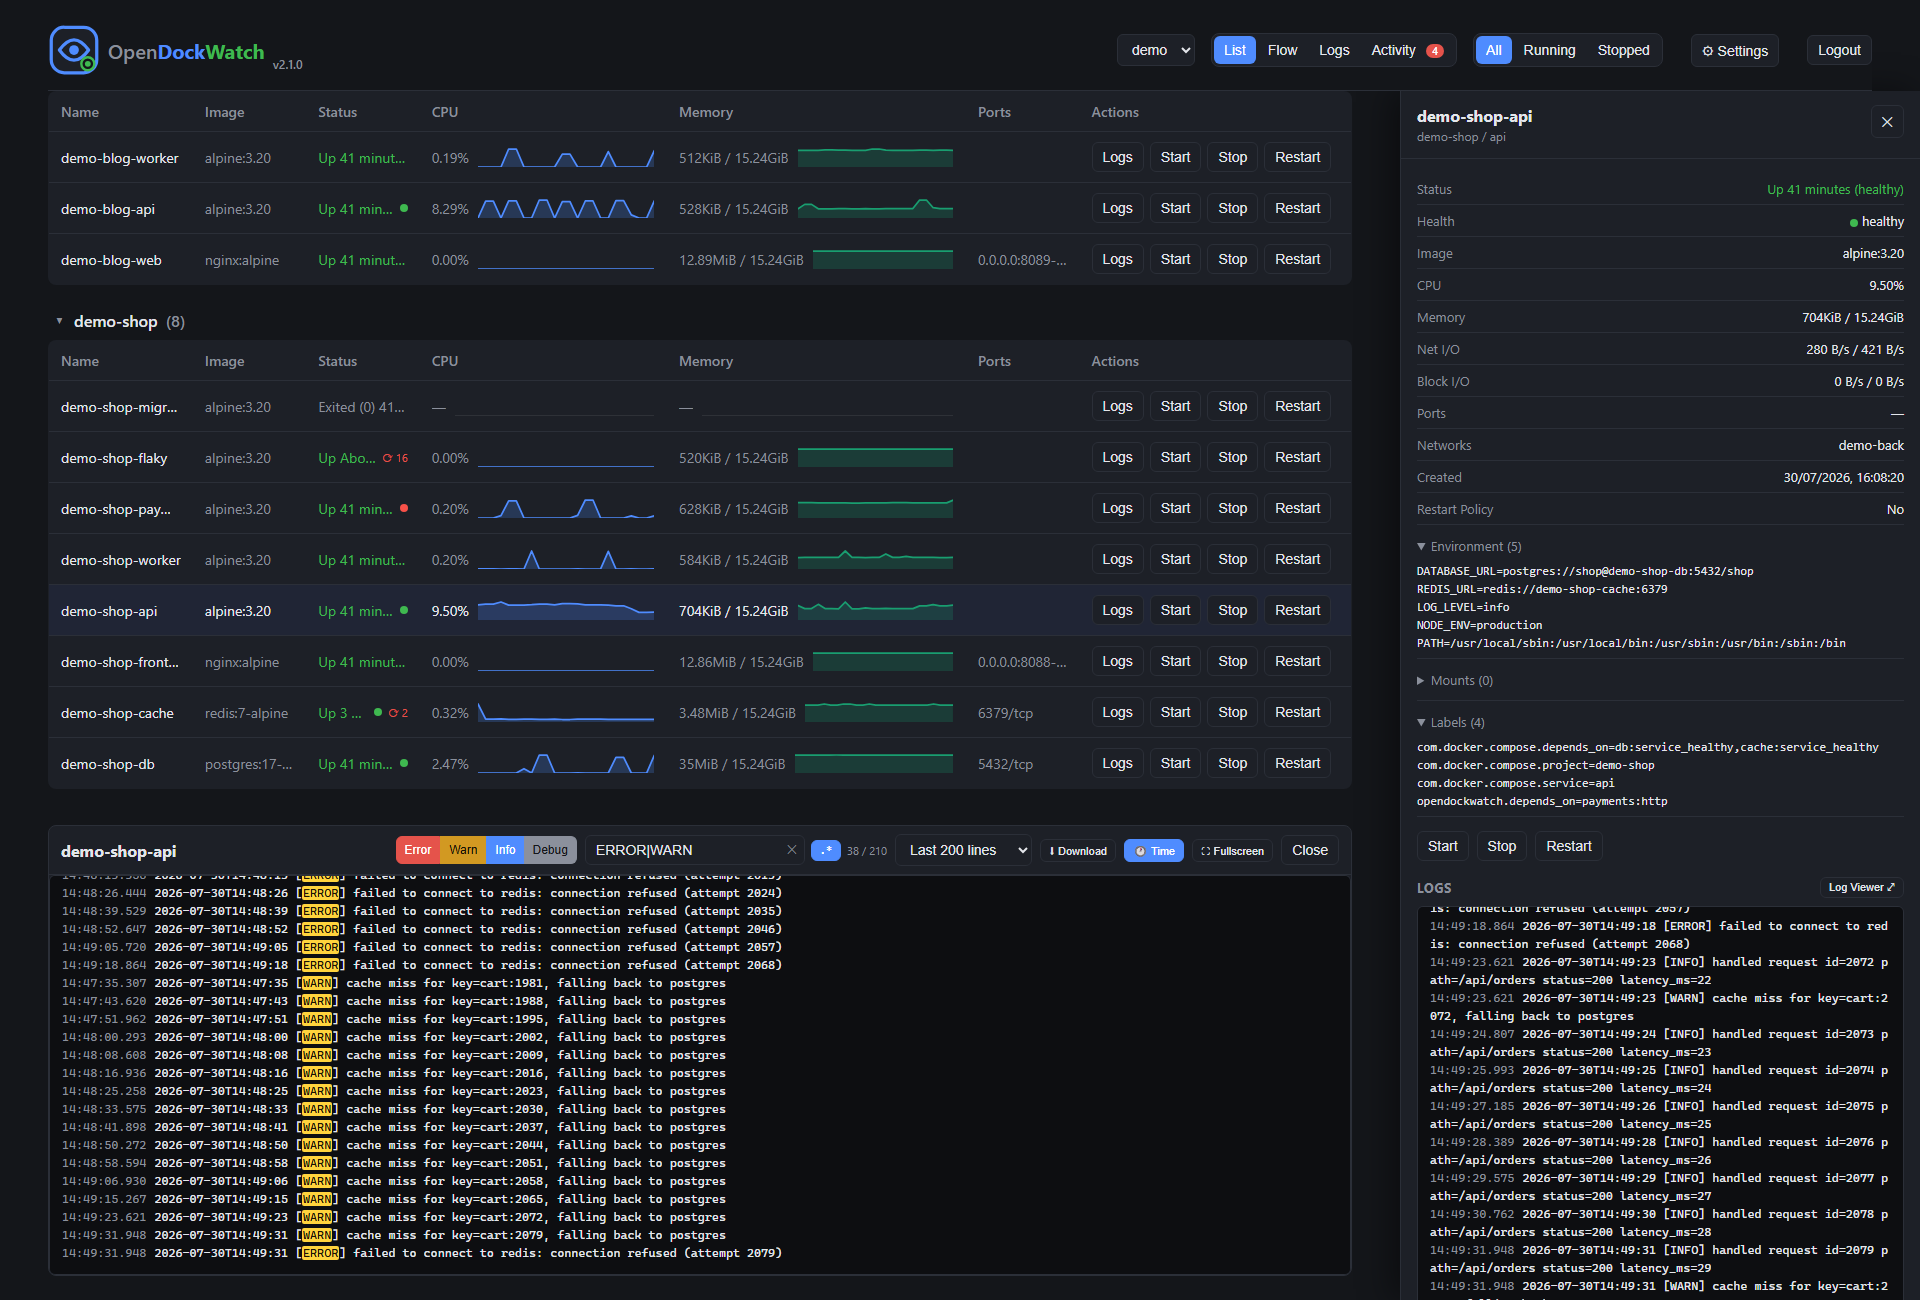
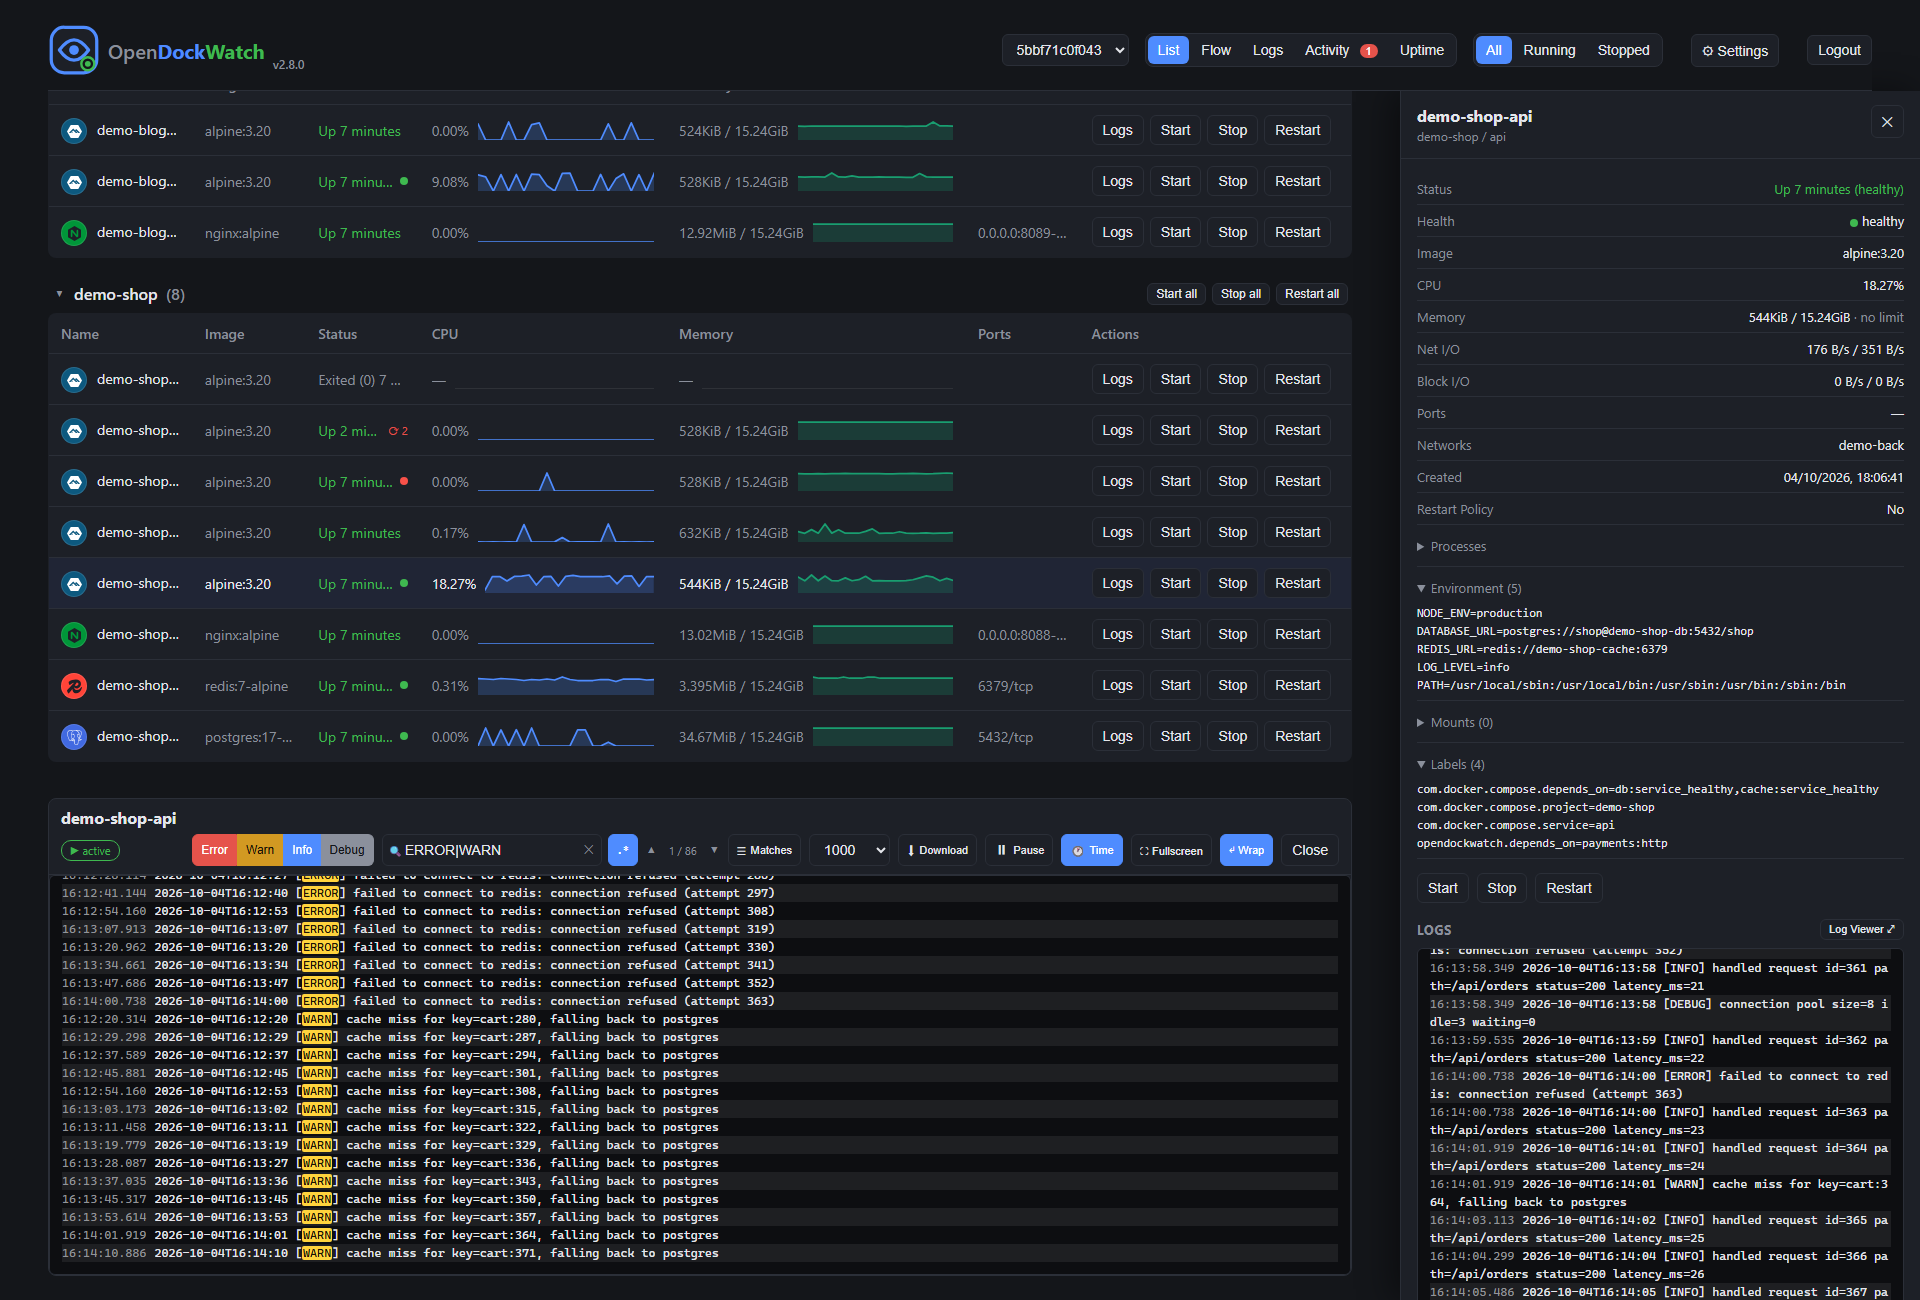
Update screenshots before release

diff --git a/scripts/screenshots.js b/scripts/screenshots.js
@@ -8,7 +8,7 @@ const URL = process.env.SCREENSHOT_URL || 'http://localhost:3100';
 const USER = process.env.SCREENSHOT_USER || 'demo';
 const PASS = process.env.SCREENSHOT_PASS;
 const OUT = process.env.SCREENSHOT_OUT || path.join(__dirname, '..', 'screenshots');
-const WARM_MS = Number(process.env.SCREENSHOT_WARM_MS || 135_000);
+const WARM_MS = Number(process.env.SCREENSHOT_WARM_MS || 360_000);
 const SCALE = Number(process.env.SCREENSHOT_SCALE || 1);
 
 // 1920x1300. Wide because the details panel is a fixed 520px and at 1600 it squeezed the table
@@ -158,8 +158,13 @@ async function main() {
   console.log('logs tab');
   await page.locator('.view-toggle button', { hasText: 'Logs' }).first().click();
   await page.waitForTimeout(1200);
-  await page.locator('.logs-tab-row', { hasText: 'demo-shop-api' }).first().click();
-  await page.waitForTimeout(3000);
+  // Multi mode is the default, but a remembered single-pane choice would hide the point of the tab.
+  await page.locator('.logs-tab-viewmode button', { hasText: 'Multi' }).click();
+  for (const name of ['demo-shop-api', 'demo-shop-worker', 'demo-blog-api', 'demo-shop-payments']) {
+    await page.locator('.logs-tab-row', { hasText: name }).first().click();
+    await page.waitForTimeout(400);
+  }
+  await page.waitForTimeout(3500);
   await shot('logs-tab', { fitHeight: false });
 
   console.log('details panel');

diff --git a/CONTRIBUTING.md b/CONTRIBUTING.md
@@ -54,6 +54,20 @@ leave the stack running a while before shooting or those charts render as sliver
 renders at 2x for a hidpi-crisp result, at approximately four times the file size — the committed
 set is 1x, which keeps all nine under 2MB.
 
+Settings that matter when retaking the set:
+
+- **Warm-up is 6 minutes** (`SCREENSHOT_WARM_MS`, default 360000). The old 135s left the host
+  card's chart and the metrics modal looking thin. Start the stack, wait, then run the script;
+  a fresh data directory (`rm -rf data/*` on the throwaway mount) avoids stale history.
+- **The Logs tab shot opens four panes** (shop-api, shop-worker, blog-api, shop-payments) in
+  Multi mode. One pane undersells the tab, whose point is side-by-side, timestamp-synced logs.
+  The script clicks "Multi" first because a remembered single-pane choice would otherwise stick.
+- **Use a throwaway instance, not your own**: a separate image tag, a scratch `data`/`config`
+  directory, an `--env-file` with a known demo password, and a `hosts.json` holding only `local`
+  (the example file's fake prod/staging hosts spam the log with SSH retries).
+- On Windows with Docker inside WSL, run `demo-stack.sh` and the container commands through
+  `wsl.exe`; the screenshot script itself runs from the Windows side against `localhost:3100`.
+
 Review every shot before committing. Several of the views need coaxing to photograph well (the
 graph views use the Fullscreen toggle so nodes don't fall back to their compact rendering, and the
 details panel has to be told to expand its collapsed sections), and a UI change can quietly undo
